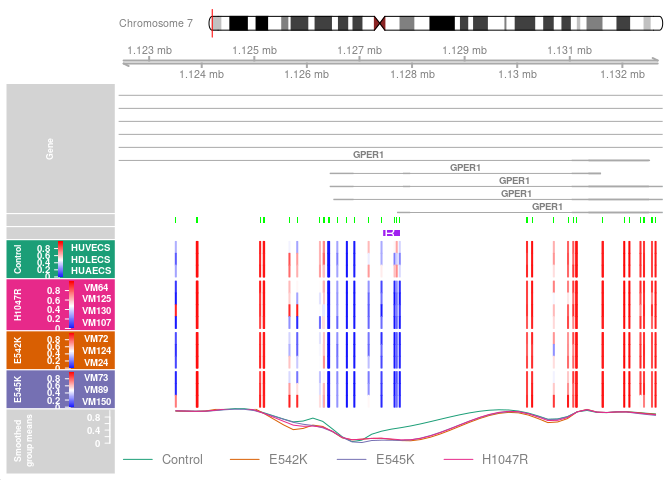
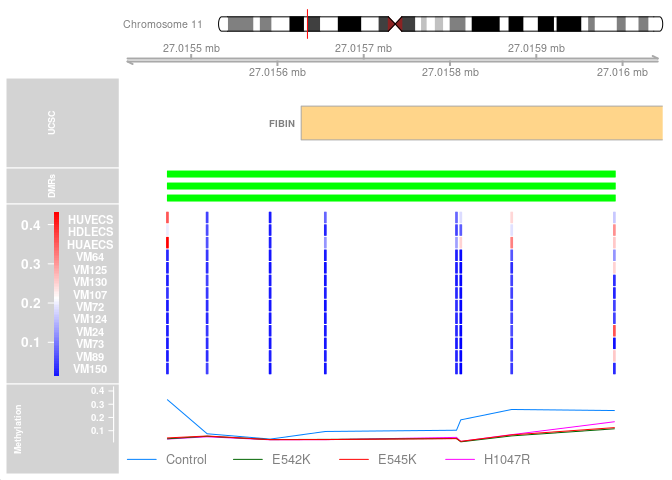
Use methtools

diff --git a/docs/MethylationEPIC.md b/docs/MethylationEPIC.md
@@ -10,7 +10,7 @@ data, followed by differential methylation analysis to find and annotate
 differentially methylated positions (DMPs) and regions (DMRs).
 
 > **Note**: This document is the markdown version of the
-> [MethylationEPIC.R](https://github.com/raulsanzr/FDP/blob/main/R/MethylationEPIC.R)
+> [MethylationEPIC.R](https://github.com/raulsanzr/methylation-analysis/blob/main/R/MethylationEPIC.R)
 > script.
 
 ## Required packages
@@ -19,7 +19,7 @@ differentially methylated positions (DMPs) and regions (DMRs).
 library(minfi) # BiocManager::install("minfi")
 library(limma) # BiocManager::install("limma")
 library(DMRcate) # BiocManager::install("DMRcate")
-library(maxprobes) # remotes::install_github("markgene/maxprobes")
+library(maxprobes) # devtools::install_github("markgene/maxprobes")
 library(readxl) # install.packages("readxl")
 library(dplyr) # install.packages("dplyr")
 library(ggplot2) # install.packages("ggplot2")
@@ -27,6 +27,7 @@ library(ggrepel) # install.packages("ggrepel")
 library(ggfortify) # install.packages("ggfortify")
 library(gplots) # install.packages("gplots")
 library(RColorBrewer) # install.packages("RColorBrewer")
+library(methtools) # devtools::install_github("raulsanzr/methtools")
 ```
 
 ## Loading the data
@@ -50,8 +51,8 @@ rgSet <- read.metharray.exp("data/human/") # folder where the IDAT files are pla
 
 ### Metadata
 
-The metadata is a file that includes relevant information about the
-samples that will be useful later to group them.
+The metadata includes relevant information about the samples that will
+be useful later to group them.
 
 ``` r
 metadata <- as.data.frame(read_excel("data/human/PIK3CA_samples_SC.xlsx"))
@@ -245,9 +246,11 @@ pca_res <- prcomp(t(beta_top100), scale=T, center=T) # ! the matrix needs to tra
 
 ``` r
 autoplot(pca_res, x=1, y=2,data=metadata, colour="Condition")+
-  geom_text_repel(aes(label=Sample, color=Condition),hjust=-0.1, vjust=0, show.legend=F, size=3.5)+
+  geom_text_repel(aes(label=Sample, color=Condition),hjust=-0.1, vjust=0, show.legend=F, size=4)+
   xlim(c(-0.5,0.3)) +
-  theme_bw()
+  scale_color_brewer(palette="Set2")+ 
+  theme_bw()+
+  ggtitle("PCA by condition")
 ```
 
 ![](refs/PCA_Condition.png)<!-- -->
@@ -311,7 +314,7 @@ they are located in the genome.
 contrasts <- colnames(contMat)
 
 # matching beta values with annotation by the probe names
-annEPICSub <- ann[match(rownames(beta_values),ann$Name), c(1:4,12:19,22:ncol(ann))]
+annEPICSub <- ann.cpg(cpgs=beta_values, array="EPIC", what="short")
 
 DMP.list <- data.frame() # df to store the DMPs
 cg <- list() # list to store the names of significant probes
@@ -404,7 +407,7 @@ statistics that support the finding.
 DMR.list <- data.frame()
 for(i in 1:length(contrasts)){
   # annotating the CpG's for each contrast + finding significant CpG's
-  myAnnotation <- cpg.annotate(object=beta_values, datatype="array", what="Beta", contrasts=T, 
+  myAnnotation <- cpg.annotate(object=beta_values, datatype="array", what="Beta",contrasts=T,  
                                design=designMat, cont.matrix=contMat, analysis.type="differential",
                                coef=gsub("_", " - ", as.character(contrasts[i])), arraytype="EPIC")
   
@@ -435,29 +438,16 @@ head(DMR.list[,c(2:7,14)], 5)
 
 #### Plotting DMRs
 
-This package also includes the function `DMR.plot` to plot the found
-DMRs based on `Gviz` representations by tracks.
-
 ``` r
-pal <- brewer.pal(8, "Dark2") # palette
+CpGs <- gmSet@rowRanges
+values(CpGs) <- beta_values
 
-# to colour by mutation (condition)
-groups <- pal[1:length(unique(metadata$Condition))]
-names(groups) <- levels(factor(metadata$Condition))
-cols <- groups[as.character(factor(metadata$Condition))]
-
-# is needed to convert the data frame into a genomic ranges object
-DMR.GR <- makeGRangesFromDataFrame(DMR.list)
-
-DMR.plot(ranges=DMR.GR, dmr=1, CpGs=beta_values, phen.col=cols, what="Beta", arraytype="EPIC", 
-         genome="hg19")
+meth.plot(genome="hg19", chr="chr11", start=27015473, end=27015991, sites=CpGs, regions=DMR.list, group=metadata$Condition)
 ```
 
 ![](refs/DMR_1.png)<!-- -->
 
-> **Note**: Other desired regions of the genome can be plotted using the
-> [plotDMR.R](https://github.com/raulsanzr/FDP/blob/main/R/plotDMR.R)
-> script.
+> **Note**: Plot produced with [methtools](https://github.com/raulsanzr/methtools).
 
 ## Session information
 
@@ -488,38 +478,39 @@ DMR.plot(ranges=DMR.GR, dmr=1, CpGs=beta_values, phen.col=cols, what="Beta", arr
     ##  [5] dbplyr_2.1.1                                       
     ##  [6] IlluminaHumanMethylationEPICanno.ilm10b4.hg19_0.6.0
     ##  [7] IlluminaHumanMethylationEPICmanifest_0.3.0         
-    ##  [8] RColorBrewer_1.1-2                                 
-    ##  [9] gplots_3.1.1                                       
-    ## [10] ggfortify_0.4.14                                   
-    ## [11] ggrepel_0.9.1                                      
-    ## [12] ggplot2_3.3.5                                      
-    ## [13] dplyr_1.0.8                                        
-    ## [14] readxl_1.3.1                                       
-    ## [15] maxprobes_0.0.2                                    
-    ## [16] DMRcate_2.8.3                                      
-    ## [17] limma_3.50.1                                       
-    ## [18] minfi_1.40.0                                       
-    ## [19] bumphunter_1.36.0                                  
-    ## [20] locfit_1.5-9.5                                     
-    ## [21] iterators_1.0.14                                   
-    ## [22] foreach_1.5.2                                      
-    ## [23] Biostrings_2.62.0                                  
-    ## [24] XVector_0.34.0                                     
-    ## [25] SummarizedExperiment_1.24.0                        
-    ## [26] Biobase_2.54.0                                     
-    ## [27] MatrixGenerics_1.6.0                               
-    ## [28] matrixStats_0.61.0                                 
-    ## [29] GenomicRanges_1.46.1                               
-    ## [30] GenomeInfoDb_1.30.1                                
-    ## [31] IRanges_2.28.0                                     
-    ## [32] S4Vectors_0.32.3                                   
-    ## [33] BiocGenerics_0.40.0                                
+    ##  [8] methtools_0.0.2.0                                  
+    ##  [9] RColorBrewer_1.1-3                                 
+    ## [10] gplots_3.1.3                                       
+    ## [11] ggfortify_0.4.14                                   
+    ## [12] ggrepel_0.9.1                                      
+    ## [13] ggplot2_3.3.6                                      
+    ## [14] dplyr_1.0.9                                        
+    ## [15] readxl_1.4.0                                       
+    ## [16] maxprobes_0.0.2                                    
+    ## [17] DMRcate_2.8.3                                      
+    ## [18] limma_3.50.3                                       
+    ## [19] minfi_1.40.0                                       
+    ## [20] bumphunter_1.36.0                                  
+    ## [21] locfit_1.5-9.5                                     
+    ## [22] iterators_1.0.14                                   
+    ## [23] foreach_1.5.2                                      
+    ## [24] Biostrings_2.62.0                                  
+    ## [25] XVector_0.34.0                                     
+    ## [26] SummarizedExperiment_1.24.0                        
+    ## [27] Biobase_2.54.0                                     
+    ## [28] MatrixGenerics_1.6.0                               
+    ## [29] matrixStats_0.62.0                                 
+    ## [30] GenomicRanges_1.46.1                               
+    ## [31] GenomeInfoDb_1.30.1                                
+    ## [32] IRanges_2.28.0                                     
+    ## [33] S4Vectors_0.32.4                                   
+    ## [34] BiocGenerics_0.40.0                                
     ## 
     ## loaded via a namespace (and not attached):
     ##   [1] utf8_1.2.2                                        
     ##   [2] R.utils_2.11.0                                    
     ##   [3] tidyselect_1.1.2                                  
-    ##   [4] RSQLite_2.2.10                                    
+    ##   [4] RSQLite_2.2.14                                    
     ##   [5] AnnotationDbi_1.56.2                              
     ##   [6] htmlwidgets_1.5.4                                 
     ##   [7] grid_4.1.2                                        
@@ -532,16 +523,16 @@ DMR.plot(ranges=DMR.GR, dmr=1, CpGs=beta_values, phen.col=cols, what="Beta", arr
     ##  [14] colorspace_2.0-3                                  
     ##  [15] filelock_1.0.2                                    
     ##  [16] highr_0.9                                         
-    ##  [17] knitr_1.37                                        
+    ##  [17] knitr_1.39                                        
     ##  [18] rstudioapi_0.13                                   
     ##  [19] labeling_0.4.2                                    
     ##  [20] GenomeInfoDbData_1.2.7                            
     ##  [21] farver_2.1.0                                      
     ##  [22] bit64_4.0.5                                       
-    ##  [23] rhdf5_2.38.0                                      
-    ##  [24] vctrs_0.3.8                                       
+    ##  [23] rhdf5_2.38.1                                      
+    ##  [24] vctrs_0.4.1                                       
     ##  [25] generics_0.1.2                                    
-    ##  [26] xfun_0.30                                         
+    ##  [26] xfun_0.31                                         
     ##  [27] biovizBase_1.42.0                                 
     ##  [28] R6_2.5.1                                          
     ##  [29] illuminaio_0.36.0                                 
@@ -549,17 +540,17 @@ DMR.plot(ranges=DMR.GR, dmr=1, CpGs=beta_values, phen.col=cols, what="Beta", arr
     ##  [31] bitops_1.0-7                                      
     ##  [32] rhdf5filters_1.6.0                                
     ##  [33] cachem_1.0.6                                      
-    ##  [34] reshape_0.8.8                                     
+    ##  [34] reshape_0.8.9                                     
     ##  [35] DelayedArray_0.20.0                               
     ##  [36] assertthat_0.2.1                                  
     ##  [37] IlluminaHumanMethylation450kanno.ilmn12.hg19_0.6.0
     ##  [38] promises_1.2.0.1                                  
     ##  [39] BiocIO_1.4.0                                      
-    ##  [40] scales_1.1.1                                      
+    ##  [40] scales_1.2.0                                      
     ##  [41] bsseq_1.30.0                                      
     ##  [42] nnet_7.3-17                                       
     ##  [43] gtable_0.3.0                                      
-    ##  [44] ensembldb_2.18.3                                  
+    ##  [44] ensembldb_2.18.4                                  
     ##  [45] rlang_1.0.2                                       
     ##  [46] genefilter_1.76.0                                 
     ##  [47] splines_4.1.2                                     
@@ -567,9 +558,9 @@ DMR.plot(ranges=DMR.GR, dmr=1, CpGs=beta_values, phen.col=cols, what="Beta", arr
     ##  [49] lazyeval_0.2.2                                    
     ##  [50] DSS_2.42.0                                        
     ##  [51] GEOquery_2.62.2                                   
-    ##  [52] dichromat_2.0-0                                   
-    ##  [53] checkmate_2.0.0                                   
-    ##  [54] BiocManager_1.30.16                               
+    ##  [52] dichromat_2.0-0.1                                 
+    ##  [53] checkmate_2.1.0                                   
+    ##  [54] BiocManager_1.30.17                               
     ##  [55] yaml_2.3.5                                        
     ##  [56] GenomicFeatures_1.46.5                            
     ##  [57] backports_1.4.1                                   
@@ -579,8 +570,8 @@ DMR.plot(ranges=DMR.GR, dmr=1, CpGs=beta_values, phen.col=cols, what="Beta", arr
     ##  [61] nor1mix_1.3-0                                     
     ##  [62] ellipsis_0.3.2                                    
     ##  [63] siggenes_1.68.0                                   
-    ##  [64] Rcpp_1.0.8                                        
-    ##  [65] plyr_1.8.6                                        
+    ##  [64] Rcpp_1.0.8.3                                      
+    ##  [65] plyr_1.8.7                                        
     ##  [66] base64enc_0.1-3                                   
     ##  [67] sparseMatrixStats_1.6.0                           
     ##  [68] progress_1.2.2                                    
@@ -591,7 +582,7 @@ DMR.plot(ranges=DMR.GR, dmr=1, CpGs=beta_values, phen.col=cols, what="Beta", arr
     ##  [73] rpart_4.1-15                                      
     ##  [74] openssl_2.0.0                                     
     ##  [75] cluster_2.1.2                                     
-    ##  [76] magrittr_2.0.2                                    
+    ##  [76] magrittr_2.0.3                                    
     ##  [77] data.table_1.14.2                                 
     ##  [78] ProtGenerics_1.26.0                               
     ##  [79] missMethyl_1.28.0                                 
@@ -605,13 +596,13 @@ DMR.plot(ranges=DMR.GR, dmr=1, CpGs=beta_values, phen.col=cols, what="Beta", arr
     ##  [87] gridExtra_2.3                                     
     ##  [88] compiler_4.1.2                                    
     ##  [89] biomaRt_2.50.3                                    
-    ##  [90] tibble_3.1.6                                      
+    ##  [90] tibble_3.1.7                                      
     ##  [91] KernSmooth_2.23-20                                
-    ##  [92] crayon_1.5.0                                      
+    ##  [92] crayon_1.5.1                                      
     ##  [93] R.oo_1.24.0                                       
     ##  [94] htmltools_0.5.2                                   
     ##  [95] later_1.3.0                                       
-    ##  [96] tzdb_0.2.0                                        
+    ##  [96] tzdb_0.3.0                                        
     ##  [97] Formula_1.2-4                                     
     ##  [98] tidyr_1.2.0                                       
     ##  [99] DBI_1.1.2                                         
@@ -620,56 +611,57 @@ DMR.plot(ranges=DMR.GR, dmr=1, CpGs=beta_values, phen.col=cols, what="Beta", arr
     ## [102] Matrix_1.4-0                                      
     ## [103] readr_2.1.2                                       
     ## [104] permute_0.9-7                                     
-    ## [105] cli_3.2.0                                         
+    ## [105] cli_3.3.0                                         
     ## [106] quadprog_1.5-8                                    
     ## [107] R.methodsS3_1.8.1                                 
     ## [108] Gviz_1.38.2                                       
-    ## [109] pkgconfig_2.0.3                                   
-    ## [110] GenomicAlignments_1.30.0                          
-    ## [111] foreign_0.8-82                                    
-    ## [112] xml2_1.3.3                                        
-    ## [113] annotate_1.72.0                                   
-    ## [114] rngtools_1.5.2                                    
-    ## [115] multtest_2.50.0                                   
-    ## [116] beanplot_1.2                                      
-    ## [117] doRNG_1.8.2                                       
-    ## [118] scrime_1.3.5                                      
-    ## [119] stringr_1.4.0                                     
-    ## [120] VariantAnnotation_1.40.0                          
-    ## [121] digest_0.6.29                                     
-    ## [122] cellranger_1.1.0                                  
-    ## [123] rmarkdown_2.12                                    
-    ## [124] base64_2.0                                        
-    ## [125] htmlTable_2.4.0                                   
-    ## [126] edgeR_3.36.0                                      
-    ## [127] DelayedMatrixStats_1.16.0                         
-    ## [128] restfulr_0.0.13                                   
-    ## [129] curl_4.3.2                                        
-    ## [130] shiny_1.7.1                                       
-    ## [131] Rsamtools_2.10.0                                  
-    ## [132] gtools_3.9.2                                      
-    ## [133] rjson_0.2.21                                      
-    ## [134] lifecycle_1.0.1                                   
-    ## [135] nlme_3.1-155                                      
-    ## [136] Rhdf5lib_1.16.0                                   
-    ## [137] askpass_1.1                                       
-    ## [138] BSgenome_1.62.0                                   
-    ## [139] fansi_1.0.2                                       
-    ## [140] pillar_1.7.0                                      
-    ## [141] lattice_0.20-45                                   
-    ## [142] KEGGREST_1.34.0                                   
-    ## [143] fastmap_1.1.0                                     
-    ## [144] httr_1.4.2                                        
-    ## [145] survival_3.2-13                                   
-    ## [146] interactiveDisplayBase_1.32.0                     
-    ## [147] glue_1.6.2                                        
-    ## [148] png_0.1-7                                         
-    ## [149] BiocVersion_3.14.0                                
-    ## [150] bit_4.0.4                                         
-    ## [151] stringi_1.7.6                                     
-    ## [152] HDF5Array_1.22.1                                  
-    ## [153] blob_1.2.2                                        
-    ## [154] org.Hs.eg.db_3.14.0                               
-    ## [155] caTools_1.18.2                                    
-    ## [156] latticeExtra_0.6-29                               
-    ## [157] memoise_2.0.1
+    ## [109] TxDb.Hsapiens.UCSC.hg19.knownGene_3.2.2           
+    ## [110] pkgconfig_2.0.3                                   
+    ## [111] GenomicAlignments_1.30.0                          
+    ## [112] foreign_0.8-82                                    
+    ## [113] xml2_1.3.3                                        
+    ## [114] annotate_1.72.0                                   
+    ## [115] rngtools_1.5.2                                    
+    ## [116] multtest_2.50.0                                   
+    ## [117] beanplot_1.3.1                                    
+    ## [118] doRNG_1.8.2                                       
+    ## [119] scrime_1.3.5                                      
+    ## [120] stringr_1.4.0                                     
+    ## [121] VariantAnnotation_1.40.0                          
+    ## [122] digest_0.6.29                                     
+    ## [123] cellranger_1.1.0                                  
+    ## [124] rmarkdown_2.14                                    
+    ## [125] base64_2.0                                        
+    ## [126] htmlTable_2.4.0                                   
+    ## [127] edgeR_3.36.0                                      
+    ## [128] DelayedMatrixStats_1.16.0                         
+    ## [129] restfulr_0.0.13                                   
+    ## [130] curl_4.3.2                                        
+    ## [131] shiny_1.7.1                                       
+    ## [132] Rsamtools_2.10.0                                  
+    ## [133] gtools_3.9.2                                      
+    ## [134] rjson_0.2.21                                      
+    ## [135] lifecycle_1.0.1                                   
+    ## [136] nlme_3.1-155                                      
+    ## [137] Rhdf5lib_1.16.0                                   
+    ## [138] askpass_1.1                                       
+    ## [139] BSgenome_1.62.0                                   
+    ## [140] fansi_1.0.3                                       
+    ## [141] pillar_1.7.0                                      
+    ## [142] lattice_0.20-45                                   
+    ## [143] KEGGREST_1.34.0                                   
+    ## [144] fastmap_1.1.0                                     
+    ## [145] httr_1.4.3                                        
+    ## [146] survival_3.2-13                                   
+    ## [147] interactiveDisplayBase_1.32.0                     
+    ## [148] glue_1.6.2                                        
+    ## [149] png_0.1-7                                         
+    ## [150] BiocVersion_3.14.0                                
+    ## [151] bit_4.0.4                                         
+    ## [152] stringi_1.7.6                                     
+    ## [153] HDF5Array_1.22.1                                  
+    ## [154] blob_1.2.3                                        
+    ## [155] org.Hs.eg.db_3.14.0                               
+    ## [156] caTools_1.18.2                                    
+    ## [157] latticeExtra_0.6-29                               
+    ## [158] memoise_2.0.1
